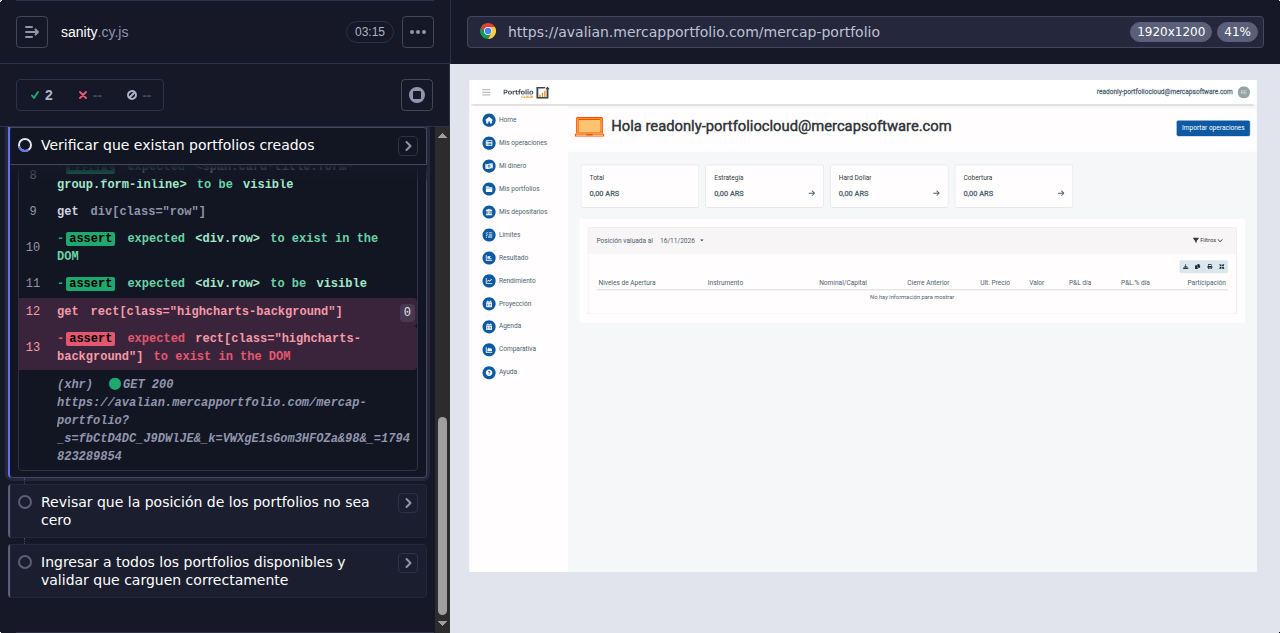
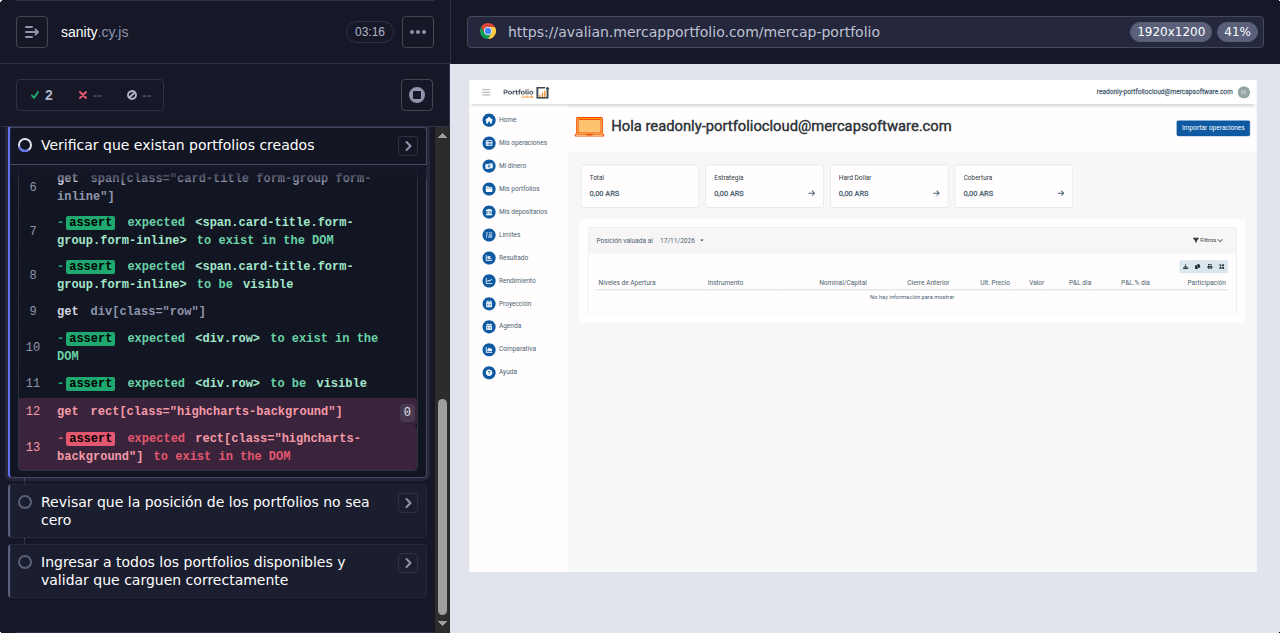
deploy: Mercap/portfolio-qa-tests@4aeec43ded94edbb944f34a9a0a7dde37aa3ffd3

Changed region(s): [[0.0, 0.2701, 0.375, 0.7504]]

diff --git a/mpc/Production/Avalian/sanity/index.html b/mpc/Production/Avalian/sanity/index.html
@@ -1,2 +1,2 @@
 <!doctype html>
-<html lang="en"><head><meta charSet="utf-8"/><meta http-equiv="X-UA-Compatible" content="IE=edge"/><meta name="viewport" content="width=device-width, initial-scale=1"/><title>Mochawesome Report</title><link rel="stylesheet" href="assets/app.css"/></head><body data-raw="{&quot;stats&quot;:{&quot;suites&quot;:1,&quot;tests&quot;:5,&quot;passes&quot;:2,&quot;pending&quot;:1,&quot;failures&quot;:1,&quot;testsRegistered&quot;:5,&quot;passPercent&quot;:40,&quot;pendingPercent&quot;:20,&quot;other&quot;:0,&quot;hasOther&quot;:false,&quot;skipped&quot;:1,&quot;hasSkipped&quot;:true,&quot;start&quot;:&quot;2026-11-16T10:01:16.783Z&quot;,&quot;end&quot;:&quot;2026-11-16T10:04:32.424Z&quot;,&quot;duration&quot;:195641},&quot;results&quot;:[{&quot;uuid&quot;:&quot;fa8a06f2-29ca-4ab7-9441-7cc5633fac66&quot;,&quot;title&quot;:&quot;&quot;,&quot;fullFile&quot;:&quot;build/production/avalian/specs/sanity/sanity.cy.js&quot;,&quot;file&quot;:&quot;build/production/avalian/specs/sanity/sanity.cy.js&quot;,&quot;beforeHooks&quot;:[],&quot;afterHooks&quot;:[],&quot;tests&quot;:[],&quot;suites&quot;:[{&quot;uuid&quot;:&quot;856f38d5-7d03-42cc-918e-b9a7bbea31e8&quot;,&quot;title&quot;:&quot;Precondición Admin Login&quot;,&quot;fullFile&quot;:&quot;&quot;,&quot;file&quot;:&quot;&quot;,&quot;beforeHooks&quot;:[],&quot;afterHooks&quot;:[],&quot;tests&quot;:[{&quot;title&quot;:&quot;Ingresar y hacer login en el admin de MPC&quot;,&quot;fullTitle&quot;:&quot;Precondición Admin Login Ingresar y hacer login en el admin de MPC&quot;,&quot;timedOut&quot;:null,&quot;duration&quot;:6580,&quot;state&quot;:&quot;passed&quot;,&quot;speed&quot;:&quot;medium&quot;,&quot;pass&quot;:true,&quot;fail&quot;:false,&quot;pending&quot;:false,&quot;context&quot;:null,&quot;code&quot;:&quot;cy.adminLoginMPC();&quot;,&quot;err&quot;:{},&quot;uuid&quot;:&quot;ff815ae4-f9f6-43e2-a6b3-f3b25233ea9e&quot;,&quot;parentUUID&quot;:&quot;856f38d5-7d03-42cc-918e-b9a7bbea31e8&quot;,&quot;isHook&quot;:false,&quot;skipped&quot;:false}],&quot;suites&quot;:[],&quot;passes&quot;:[&quot;ff815ae4-f9f6-43e2-a6b3-f3b25233ea9e&quot;],&quot;failures&quot;:[],&quot;pending&quot;:[],&quot;skipped&quot;:[],&quot;duration&quot;:6580,&quot;root&quot;:false,&quot;rootEmpty&quot;:false,&quot;_timeout&quot;:2000},{&quot;uuid&quot;:&quot;44fdaa54-48d8-4ce2-8e23-05fc23e1550a&quot;,&quot;title&quot;:&quot;Precondición MPC Login&quot;,&quot;fullFile&quot;:&quot;&quot;,&quot;file&quot;:&quot;&quot;,&quot;beforeHooks&quot;:[],&quot;afterHooks&quot;:[],&quot;tests&quot;:[{&quot;title&quot;:&quot;Login en MPC&quot;,&quot;fullTitle&quot;:&quot;Precondición MPC Login Login en MPC&quot;,&quot;timedOut&quot;:null,&quot;duration&quot;:2611,&quot;state&quot;:&quot;passed&quot;,&quot;speed&quot;:&quot;fast&quot;,&quot;pass&quot;:true,&quot;fail&quot;:false,&quot;pending&quot;:false,&quot;context&quot;:null,&quot;code&quot;:&quot;cy.visit(_support_constants__WEBPACK_IMPORTED_MODULE_0__[\&quot;default\&quot;].MPC_LOCATION);&quot;,&quot;err&quot;:{},&quot;uuid&quot;:&quot;39292e0d-5ca7-4108-a432-6d7bc6d73af3&quot;,&quot;parentUUID&quot;:&quot;44fdaa54-48d8-4ce2-8e23-05fc23e1550a&quot;,&quot;isHook&quot;:false,&quot;skipped&quot;:false}],&quot;suites&quot;:[],&quot;passes&quot;:[&quot;39292e0d-5ca7-4108-a432-6d7bc6d73af3&quot;],&quot;failures&quot;:[],&quot;pending&quot;:[],&quot;skipped&quot;:[],&quot;duration&quot;:2611,&quot;root&quot;:false,&quot;rootEmpty&quot;:false,&quot;_timeout&quot;:2000},{&quot;uuid&quot;:&quot;d725c2f5-bd19-4dc5-90f2-8a0f7a710708&quot;,&quot;title&quot;:&quot;Verificar la posición valuada de los portfolios&quot;,&quot;fullFile&quot;:&quot;&quot;,&quot;file&quot;:&quot;&quot;,&quot;beforeHooks&quot;:[],&quot;afterHooks&quot;:[],&quot;tests&quot;:[{&quot;title&quot;:&quot;Verificar que existan portfolios creados&quot;,&quot;fullTitle&quot;:&quot;Verificar la posición valuada de los portfolios Verificar que existan portfolios creados&quot;,&quot;timedOut&quot;:null,&quot;duration&quot;:180181,&quot;state&quot;:&quot;failed&quot;,&quot;speed&quot;:null,&quot;pass&quot;:false,&quot;fail&quot;:true,&quot;pending&quot;:false,&quot;context&quot;:null,&quot;code&quot;:&quot;cy.validacionesHome();\n    cy.skipEncuesta();&quot;,&quot;err&quot;:{&quot;message&quot;:&quot;AssertionError: Timed out retrying after 180000ms: Expected to find element: `rect[class=\&quot;highcharts-background\&quot;]`, but never found it.&quot;,&quot;estack&quot;:&quot;AssertionError: Timed out retrying after 180000ms: Expected to find element: `rect[class=\&quot;highcharts-background\&quot;]`, but never found it.\n    at Context.eval (webpack://cypress/./cypress/support/commands/home.commands.js:191:0)\n    at wrapped (https://mercap.auth0.com/__cypress/runner/cypress_runner.js:146042:43)&quot;,&quot;diff&quot;:null},&quot;uuid&quot;:&quot;537e4ad6-7c82-42b8-8523-aa89449f8286&quot;,&quot;parentUUID&quot;:&quot;d725c2f5-bd19-4dc5-90f2-8a0f7a710708&quot;,&quot;isHook&quot;:false,&quot;skipped&quot;:false},{&quot;title&quot;:&quot;Revisar que la posición de los portfolios no sea cero&quot;,&quot;fullTitle&quot;:&quot;Verificar la posición valuada de los portfolios Revisar que la posición de los portfolios no sea cero&quot;,&quot;timedOut&quot;:null,&quot;duration&quot;:0,&quot;state&quot;:&quot;pending&quot;,&quot;speed&quot;:null,&quot;pass&quot;:false,&quot;fail&quot;:false,&quot;pending&quot;:true,&quot;context&quot;:null,&quot;code&quot;:&quot;cy.validarPortfoliosSinValorCero(&#x27;h6&#x27;, &#x27;h4&#x27;);&quot;,&quot;err&quot;:{},&quot;uuid&quot;:&quot;23fbade0-ee9e-4670-a616-4a94ff1d021d&quot;,&quot;parentUUID&quot;:&quot;d725c2f5-bd19-4dc5-90f2-8a0f7a710708&quot;,&quot;isHook&quot;:false,&quot;skipped&quot;:false},{&quot;title&quot;:&quot;Ingresar a todos los portfolios disponibles y validar que carguen correctamente&quot;,&quot;fullTitle&quot;:&quot;Verificar la posición valuada de los portfolios Ingresar a todos los portfolios disponibles y validar que carguen correctamente&quot;,&quot;timedOut&quot;:null,&quot;duration&quot;:0,&quot;state&quot;:&quot;skipped&quot;,&quot;speed&quot;:null,&quot;pass&quot;:false,&quot;fail&quot;:false,&quot;pending&quot;:false,&quot;context&quot;:null,&quot;code&quot;:&quot;cy.contains(&#x27;Mis portfolios&#x27;, { matchCase: false }).click();\n    cy.validacionesMisPortfolios();\n    cy.recorridaPortfolios();&quot;,&quot;err&quot;:{},&quot;uuid&quot;:&quot;110e5efd-e8ce-4bb2-874c-e01c4d31f4a0&quot;,&quot;parentUUID&quot;:&quot;d725c2f5-bd19-4dc5-90f2-8a0f7a710708&quot;,&quot;isHook&quot;:false,&quot;skipped&quot;:true}],&quot;suites&quot;:[],&quot;passes&quot;:[],&quot;failures&quot;:[&quot;537e4ad6-7c82-42b8-8523-aa89449f8286&quot;],&quot;pending&quot;:[&quot;23fbade0-ee9e-4670-a616-4a94ff1d021d&quot;],&quot;skipped&quot;:[&quot;110e5efd-e8ce-4bb2-874c-e01c4d31f4a0&quot;],&quot;duration&quot;:180181,&quot;root&quot;:false,&quot;rootEmpty&quot;:false,&quot;_timeout&quot;:2000}],&quot;passes&quot;:[],&quot;failures&quot;:[],&quot;pending&quot;:[],&quot;skipped&quot;:[],&quot;duration&quot;:0,&quot;root&quot;:true,&quot;rootEmpty&quot;:true,&quot;_timeout&quot;:2000}],&quot;meta&quot;:{&quot;mocha&quot;:{&quot;version&quot;:&quot;7.2.0&quot;},&quot;mochawesome&quot;:{&quot;options&quot;:{&quot;quiet&quot;:false,&quot;reportFilename&quot;:&quot;report&quot;,&quot;saveHtml&quot;:true,&quot;saveJson&quot;:true,&quot;consoleReporter&quot;:&quot;spec&quot;,&quot;useInlineDiffs&quot;:false,&quot;code&quot;:true},&quot;version&quot;:&quot;7.1.4&quot;},&quot;marge&quot;:{&quot;options&quot;:{&quot;reportDir&quot;:&quot;cypress/reports&quot;,&quot;overwrite&quot;:false,&quot;cleanReporterJson&quot;:false,&quot;html&quot;:true,&quot;json&quot;:true,&quot;reportFilename&quot;:&quot;report&quot;,&quot;embeddedScreenshots&quot;:true,&quot;inlineAssets&quot;:true},&quot;version&quot;:&quot;6.3.2&quot;}}}" data-config="{&quot;reportFilename&quot;:&quot;index&quot;,&quot;reportDir&quot;:&quot;cypress/reports&quot;,&quot;reportTitle&quot;:&quot;portfolio-qa-tests&quot;,&quot;reportPageTitle&quot;:&quot;Mochawesome Report&quot;,&quot;inline&quot;:false,&quot;inlineAssets&quot;:false,&quot;cdn&quot;:false,&quot;charts&quot;:false,&quot;enableCharts&quot;:false,&quot;code&quot;:true,&quot;enableCode&quot;:true,&quot;autoOpen&quot;:false,&quot;overwrite&quot;:true,&quot;timestamp&quot;:false,&quot;ts&quot;:false,&quot;showPassed&quot;:true,&quot;showFailed&quot;:true,&quot;showPending&quot;:true,&quot;showSkipped&quot;:false,&quot;showHooks&quot;:&quot;failed&quot;,&quot;saveJson&quot;:false,&quot;saveHtml&quot;:true,&quot;dev&quot;:false,&quot;assetsDir&quot;:&quot;cypress/reports/assets&quot;,&quot;htmlFile&quot;:&quot;/home/runner/work/portfolio-qa-tests/portfolio-qa-tests/cypress/reports/index.html&quot;}"><div id="report"></div><script src="assets/app.js"></script></body></html>
+<html lang="en"><head><meta charSet="utf-8"/><meta http-equiv="X-UA-Compatible" content="IE=edge"/><meta name="viewport" content="width=device-width, initial-scale=1"/><title>Mochawesome Report</title><link rel="stylesheet" href="assets/app.css"/></head><body data-raw="{&quot;stats&quot;:{&quot;suites&quot;:1,&quot;tests&quot;:5,&quot;passes&quot;:2,&quot;pending&quot;:1,&quot;failures&quot;:1,&quot;testsRegistered&quot;:5,&quot;passPercent&quot;:40,&quot;pendingPercent&quot;:20,&quot;other&quot;:0,&quot;hasOther&quot;:false,&quot;skipped&quot;:1,&quot;hasSkipped&quot;:true,&quot;start&quot;:&quot;2026-11-17T10:02:38.815Z&quot;,&quot;end&quot;:&quot;2026-11-17T10:05:55.875Z&quot;,&quot;duration&quot;:197060},&quot;results&quot;:[{&quot;uuid&quot;:&quot;59bd4238-18e4-453b-8c20-aee14da7575b&quot;,&quot;title&quot;:&quot;&quot;,&quot;fullFile&quot;:&quot;build/production/avalian/specs/sanity/sanity.cy.js&quot;,&quot;file&quot;:&quot;build/production/avalian/specs/sanity/sanity.cy.js&quot;,&quot;beforeHooks&quot;:[],&quot;afterHooks&quot;:[],&quot;tests&quot;:[],&quot;suites&quot;:[{&quot;uuid&quot;:&quot;480dfa71-614d-4fec-91a4-b58a567dcdf4&quot;,&quot;title&quot;:&quot;Precondición Admin Login&quot;,&quot;fullFile&quot;:&quot;&quot;,&quot;file&quot;:&quot;&quot;,&quot;beforeHooks&quot;:[],&quot;afterHooks&quot;:[],&quot;tests&quot;:[{&quot;title&quot;:&quot;Ingresar y hacer login en el admin de MPC&quot;,&quot;fullTitle&quot;:&quot;Precondición Admin Login Ingresar y hacer login en el admin de MPC&quot;,&quot;timedOut&quot;:null,&quot;duration&quot;:6909,&quot;state&quot;:&quot;passed&quot;,&quot;speed&quot;:&quot;medium&quot;,&quot;pass&quot;:true,&quot;fail&quot;:false,&quot;pending&quot;:false,&quot;context&quot;:null,&quot;code&quot;:&quot;cy.adminLoginMPC();&quot;,&quot;err&quot;:{},&quot;uuid&quot;:&quot;f8453b73-6581-4bfc-9ef9-640f07f24f50&quot;,&quot;parentUUID&quot;:&quot;480dfa71-614d-4fec-91a4-b58a567dcdf4&quot;,&quot;isHook&quot;:false,&quot;skipped&quot;:false}],&quot;suites&quot;:[],&quot;passes&quot;:[&quot;f8453b73-6581-4bfc-9ef9-640f07f24f50&quot;],&quot;failures&quot;:[],&quot;pending&quot;:[],&quot;skipped&quot;:[],&quot;duration&quot;:6909,&quot;root&quot;:false,&quot;rootEmpty&quot;:false,&quot;_timeout&quot;:2000},{&quot;uuid&quot;:&quot;55165048-980f-44ea-ba86-2d02dec45df1&quot;,&quot;title&quot;:&quot;Precondición MPC Login&quot;,&quot;fullFile&quot;:&quot;&quot;,&quot;file&quot;:&quot;&quot;,&quot;beforeHooks&quot;:[],&quot;afterHooks&quot;:[],&quot;tests&quot;:[{&quot;title&quot;:&quot;Login en MPC&quot;,&quot;fullTitle&quot;:&quot;Precondición MPC Login Login en MPC&quot;,&quot;timedOut&quot;:null,&quot;duration&quot;:2599,&quot;state&quot;:&quot;passed&quot;,&quot;speed&quot;:&quot;fast&quot;,&quot;pass&quot;:true,&quot;fail&quot;:false,&quot;pending&quot;:false,&quot;context&quot;:null,&quot;code&quot;:&quot;cy.visit(_support_constants__WEBPACK_IMPORTED_MODULE_0__[\&quot;default\&quot;].MPC_LOCATION);&quot;,&quot;err&quot;:{},&quot;uuid&quot;:&quot;9127048a-3971-4701-b9eb-94428026ac79&quot;,&quot;parentUUID&quot;:&quot;55165048-980f-44ea-ba86-2d02dec45df1&quot;,&quot;isHook&quot;:false,&quot;skipped&quot;:false}],&quot;suites&quot;:[],&quot;passes&quot;:[&quot;9127048a-3971-4701-b9eb-94428026ac79&quot;],&quot;failures&quot;:[],&quot;pending&quot;:[],&quot;skipped&quot;:[],&quot;duration&quot;:2599,&quot;root&quot;:false,&quot;rootEmpty&quot;:false,&quot;_timeout&quot;:2000},{&quot;uuid&quot;:&quot;158de9d6-4ccc-4640-9901-0303be8c2964&quot;,&quot;title&quot;:&quot;Verificar la posición valuada de los portfolios&quot;,&quot;fullFile&quot;:&quot;&quot;,&quot;file&quot;:&quot;&quot;,&quot;beforeHooks&quot;:[],&quot;afterHooks&quot;:[],&quot;tests&quot;:[{&quot;title&quot;:&quot;Verificar que existan portfolios creados&quot;,&quot;fullTitle&quot;:&quot;Verificar la posición valuada de los portfolios Verificar que existan portfolios creados&quot;,&quot;timedOut&quot;:null,&quot;duration&quot;:180212,&quot;state&quot;:&quot;failed&quot;,&quot;speed&quot;:null,&quot;pass&quot;:false,&quot;fail&quot;:true,&quot;pending&quot;:false,&quot;context&quot;:null,&quot;code&quot;:&quot;cy.validacionesHome();\n    cy.skipEncuesta();&quot;,&quot;err&quot;:{&quot;message&quot;:&quot;AssertionError: Timed out retrying after 180000ms: Expected to find element: `rect[class=\&quot;highcharts-background\&quot;]`, but never found it.&quot;,&quot;estack&quot;:&quot;AssertionError: Timed out retrying after 180000ms: Expected to find element: `rect[class=\&quot;highcharts-background\&quot;]`, but never found it.\n    at Context.eval (webpack://cypress/./cypress/support/commands/home.commands.js:191:0)\n    at wrapped (https://mercap.auth0.com/__cypress/runner/cypress_runner.js:146042:43)&quot;,&quot;diff&quot;:null},&quot;uuid&quot;:&quot;1287ffe6-2460-4682-98b3-a3fbf32fbd44&quot;,&quot;parentUUID&quot;:&quot;158de9d6-4ccc-4640-9901-0303be8c2964&quot;,&quot;isHook&quot;:false,&quot;skipped&quot;:false},{&quot;title&quot;:&quot;Revisar que la posición de los portfolios no sea cero&quot;,&quot;fullTitle&quot;:&quot;Verificar la posición valuada de los portfolios Revisar que la posición de los portfolios no sea cero&quot;,&quot;timedOut&quot;:null,&quot;duration&quot;:0,&quot;state&quot;:&quot;pending&quot;,&quot;speed&quot;:null,&quot;pass&quot;:false,&quot;fail&quot;:false,&quot;pending&quot;:true,&quot;context&quot;:null,&quot;code&quot;:&quot;cy.validarPortfoliosSinValorCero(&#x27;h6&#x27;, &#x27;h4&#x27;);&quot;,&quot;err&quot;:{},&quot;uuid&quot;:&quot;c933b0ca-c8a8-4247-9a0a-98f00ab3d296&quot;,&quot;parentUUID&quot;:&quot;158de9d6-4ccc-4640-9901-0303be8c2964&quot;,&quot;isHook&quot;:false,&quot;skipped&quot;:false},{&quot;title&quot;:&quot;Ingresar a todos los portfolios disponibles y validar que carguen correctamente&quot;,&quot;fullTitle&quot;:&quot;Verificar la posición valuada de los portfolios Ingresar a todos los portfolios disponibles y validar que carguen correctamente&quot;,&quot;timedOut&quot;:null,&quot;duration&quot;:0,&quot;state&quot;:&quot;skipped&quot;,&quot;speed&quot;:null,&quot;pass&quot;:false,&quot;fail&quot;:false,&quot;pending&quot;:false,&quot;context&quot;:null,&quot;code&quot;:&quot;cy.contains(&#x27;Mis portfolios&#x27;, { matchCase: false }).click();\n    cy.validacionesMisPortfolios();\n    cy.recorridaPortfolios();&quot;,&quot;err&quot;:{},&quot;uuid&quot;:&quot;437aa0d1-6163-4f9b-982e-0432fa356f0f&quot;,&quot;parentUUID&quot;:&quot;158de9d6-4ccc-4640-9901-0303be8c2964&quot;,&quot;isHook&quot;:false,&quot;skipped&quot;:true}],&quot;suites&quot;:[],&quot;passes&quot;:[],&quot;failures&quot;:[&quot;1287ffe6-2460-4682-98b3-a3fbf32fbd44&quot;],&quot;pending&quot;:[&quot;c933b0ca-c8a8-4247-9a0a-98f00ab3d296&quot;],&quot;skipped&quot;:[&quot;437aa0d1-6163-4f9b-982e-0432fa356f0f&quot;],&quot;duration&quot;:180212,&quot;root&quot;:false,&quot;rootEmpty&quot;:false,&quot;_timeout&quot;:2000}],&quot;passes&quot;:[],&quot;failures&quot;:[],&quot;pending&quot;:[],&quot;skipped&quot;:[],&quot;duration&quot;:0,&quot;root&quot;:true,&quot;rootEmpty&quot;:true,&quot;_timeout&quot;:2000}],&quot;meta&quot;:{&quot;mocha&quot;:{&quot;version&quot;:&quot;7.2.0&quot;},&quot;mochawesome&quot;:{&quot;options&quot;:{&quot;quiet&quot;:false,&quot;reportFilename&quot;:&quot;report&quot;,&quot;saveHtml&quot;:true,&quot;saveJson&quot;:true,&quot;consoleReporter&quot;:&quot;spec&quot;,&quot;useInlineDiffs&quot;:false,&quot;code&quot;:true},&quot;version&quot;:&quot;7.1.4&quot;},&quot;marge&quot;:{&quot;options&quot;:{&quot;reportDir&quot;:&quot;cypress/reports&quot;,&quot;overwrite&quot;:false,&quot;cleanReporterJson&quot;:false,&quot;html&quot;:true,&quot;json&quot;:true,&quot;reportFilename&quot;:&quot;report&quot;,&quot;embeddedScreenshots&quot;:true,&quot;inlineAssets&quot;:true},&quot;version&quot;:&quot;6.3.2&quot;}}}" data-config="{&quot;reportFilename&quot;:&quot;index&quot;,&quot;reportDir&quot;:&quot;cypress/reports&quot;,&quot;reportTitle&quot;:&quot;portfolio-qa-tests&quot;,&quot;reportPageTitle&quot;:&quot;Mochawesome Report&quot;,&quot;inline&quot;:false,&quot;inlineAssets&quot;:false,&quot;cdn&quot;:false,&quot;charts&quot;:false,&quot;enableCharts&quot;:false,&quot;code&quot;:true,&quot;enableCode&quot;:true,&quot;autoOpen&quot;:false,&quot;overwrite&quot;:true,&quot;timestamp&quot;:false,&quot;ts&quot;:false,&quot;showPassed&quot;:true,&quot;showFailed&quot;:true,&quot;showPending&quot;:true,&quot;showSkipped&quot;:false,&quot;showHooks&quot;:&quot;failed&quot;,&quot;saveJson&quot;:false,&quot;saveHtml&quot;:true,&quot;dev&quot;:false,&quot;assetsDir&quot;:&quot;cypress/reports/assets&quot;,&quot;htmlFile&quot;:&quot;/home/runner/work/portfolio-qa-tests/portfolio-qa-tests/cypress/reports/index.html&quot;}"><div id="report"></div><script src="assets/app.js"></script></body></html>
